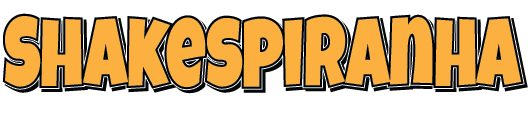
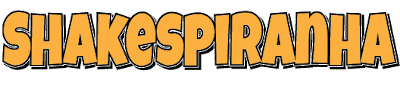
shrunk assets, better positioned fodlers button

diff --git a/index.html b/index.html
@@ -5,7 +5,7 @@
     <meta http-equiv="X-UA-Compatible" content="IE=edge">
     <meta name="viewport" content="width=device-width, initial-scale=1.0">
     <title>Shakespiranha</title>
-    <link href="style.css?2022-02-22" rel="stylesheet">
+    <link href="style.css?2022-02-22a" rel="stylesheet">
     <link href="https://fonts.googleapis.com/css2?family=Material+Icons"
       rel="stylesheet">
 </head>

diff --git a/style.css b/style.css
@@ -297,7 +297,7 @@ div#menu {
 }
 
 #folders {
-  top: calc(100% - 76px);
+  top: calc(100% - 71px);
   left: 0px;
   border-top-left-radius: 0;
   height: 100vh;
@@ -554,7 +554,8 @@ div#word-count {
 }
 
 #splash img {
-  max-width: 80%;
+  width: 80%;
+  max-width: 400px;
   margin-left: 10%;
 }
 
